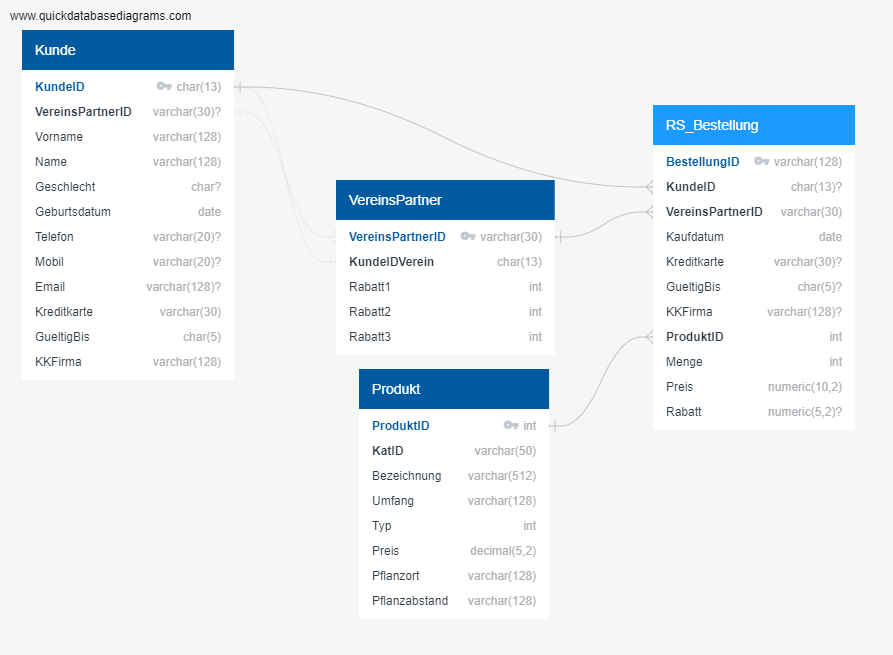
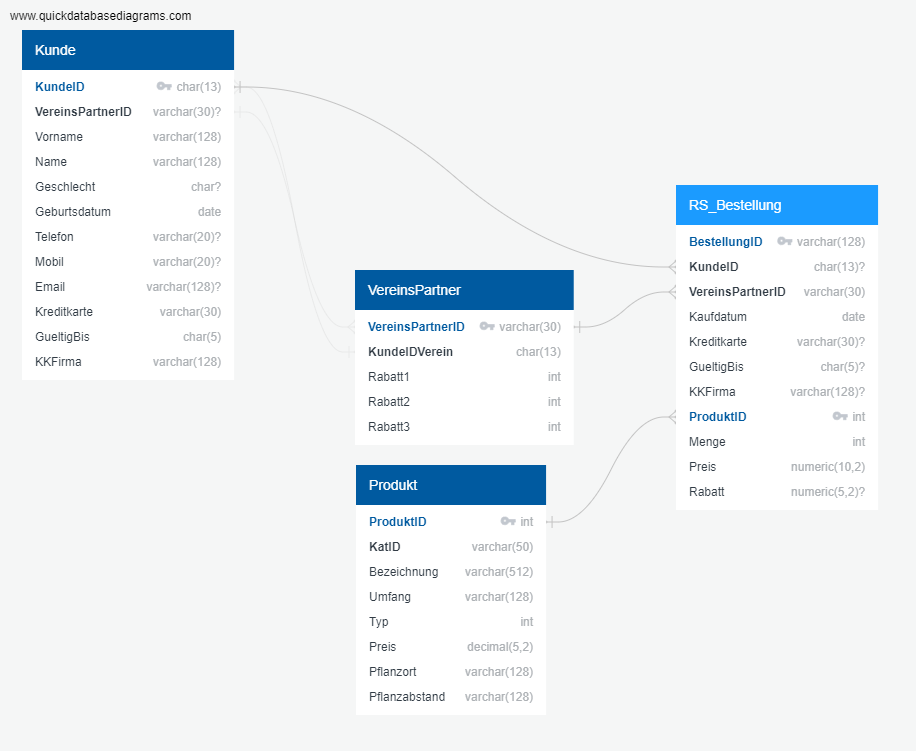
Fixes in csv header & roadshow diagram
3 small fixes:
- In the diagram of the Roadshow, the Product ID in the Roadshow Order (RS_Bestellung) is not marked as primary key. That has been corrected. Now in all diagrams with the Roadshow Order (RS_Bestellung) the ProduktID is marked as primary key.

- The header on the csv-file for delivery service (lieferdienst.csv) was missing on 'Testdaten Periode 1'.

- The csv-file for the reference file product type (ref_produkt_typ.csv) has now a header as well.

diff --git a/HintsAndFixes.md b/HintsAndFixes.md
@@ -13,13 +13,15 @@
 
 ## Fixes
 
-- 11.1.23 
+- 11.1.23
+  
   Wrong name and datatype in day 2 of roadshow
   changed the order of the csv file to match the order in the schema of RS_Bestellung
-
   
-
+  
+  
 - 12.1.23
+  
   Namechange on the 10 days early entry in the historized reference table Termintreue (description and excel file)
   
   
@@ -27,6 +29,16 @@
 - 13.1.23
 
   Removed the WohnHistID from the wohnort.csv in Testdaten Periode 1+2. The csv File has now the same number of attributes as the insert-statement-file. Testdaten Periode 3/wohnort.csv was already correct,
+  
+  
+  
+- 16.1.23
+
+  In the diagram of the Roadshow, the Product ID in the Roadshow Order (RS_Bestellung) is not marked as primary key. That has been corrected. Now in all diagrams with the Roadshow Order (RS_Bestellung) the ProduktID is marked as primary key.
+  
+  The header on the csv-file for delivery service (lieferdienst.csv) was missing on 'Testdaten Periode 1'.
+  
+  The csv-file for the reference file product type (ref_produkt_typ.csv) has now a header as well.
 
 
 
